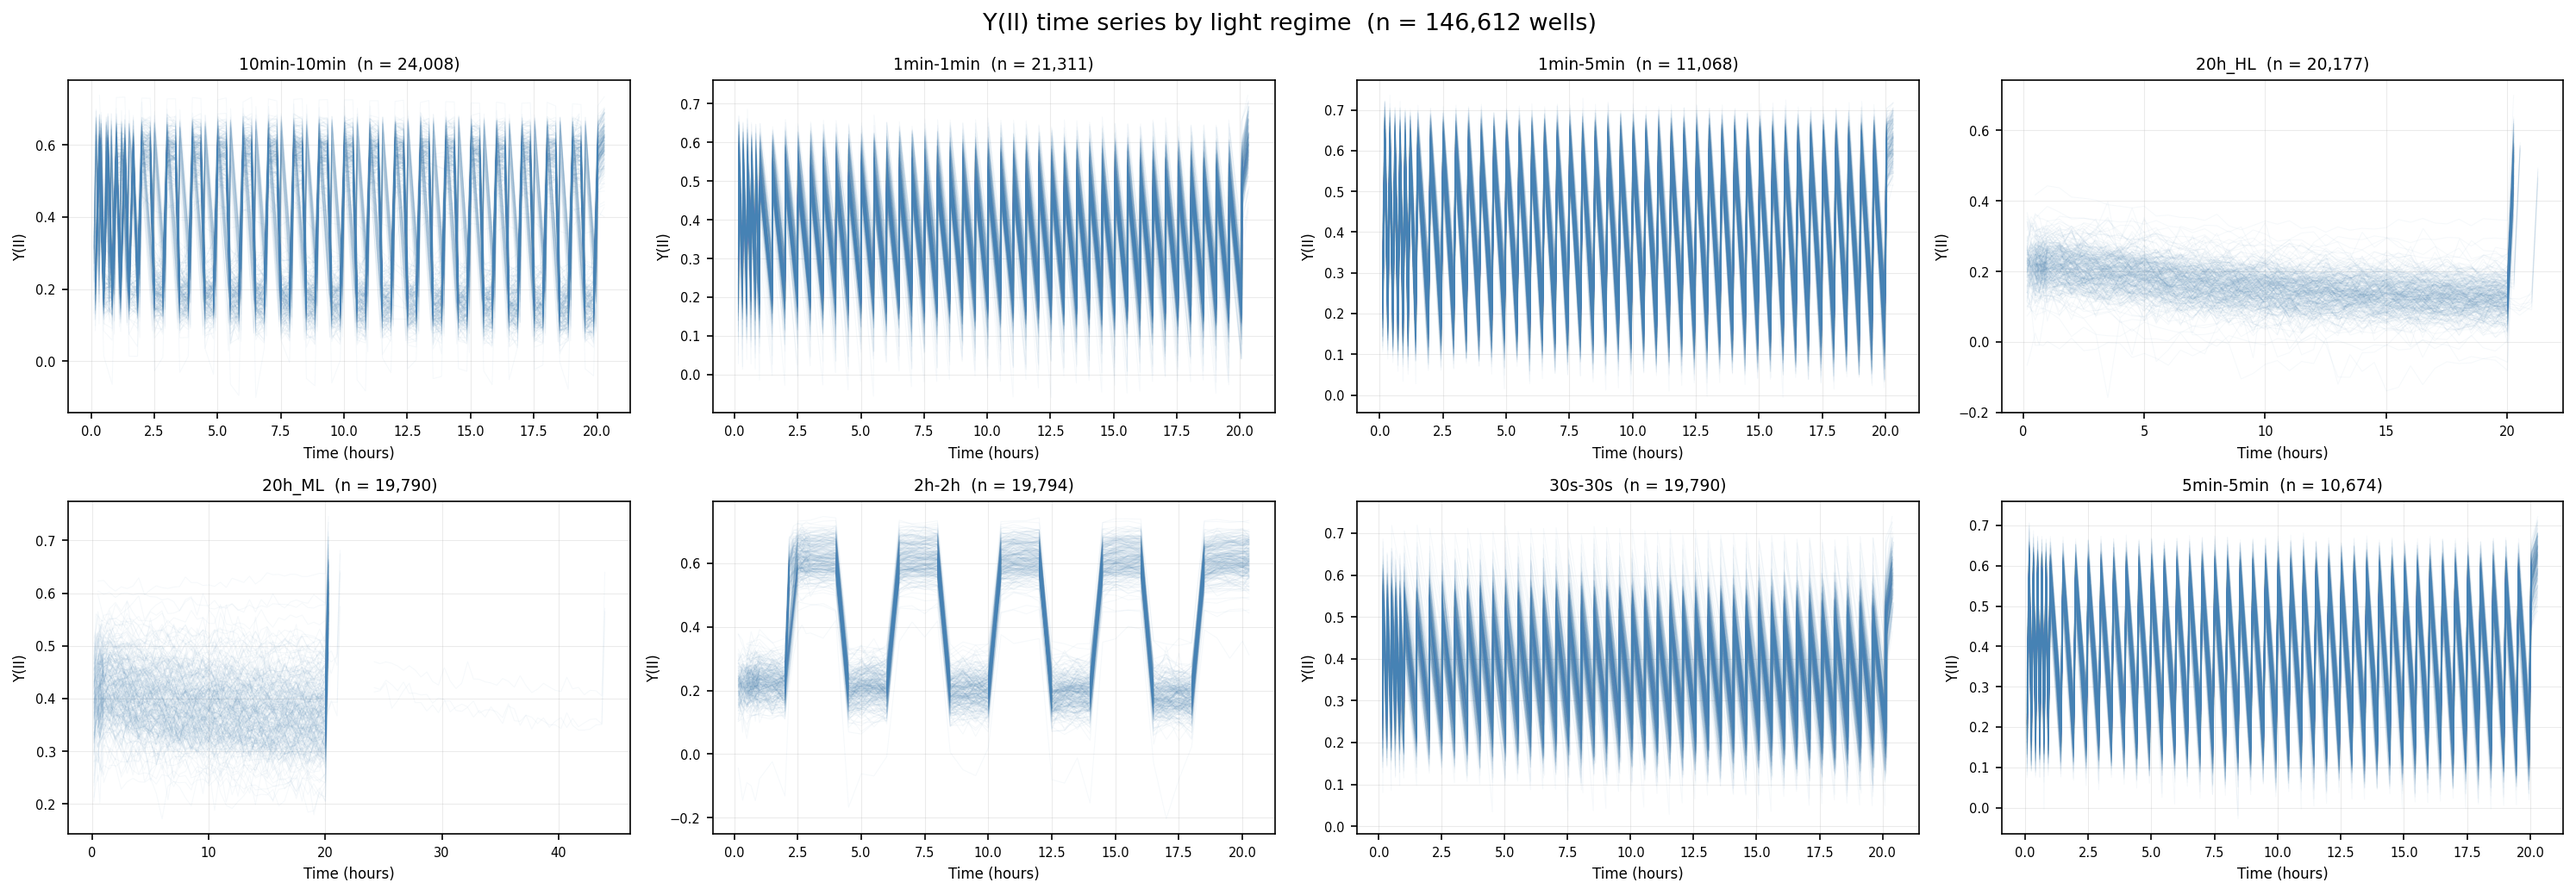
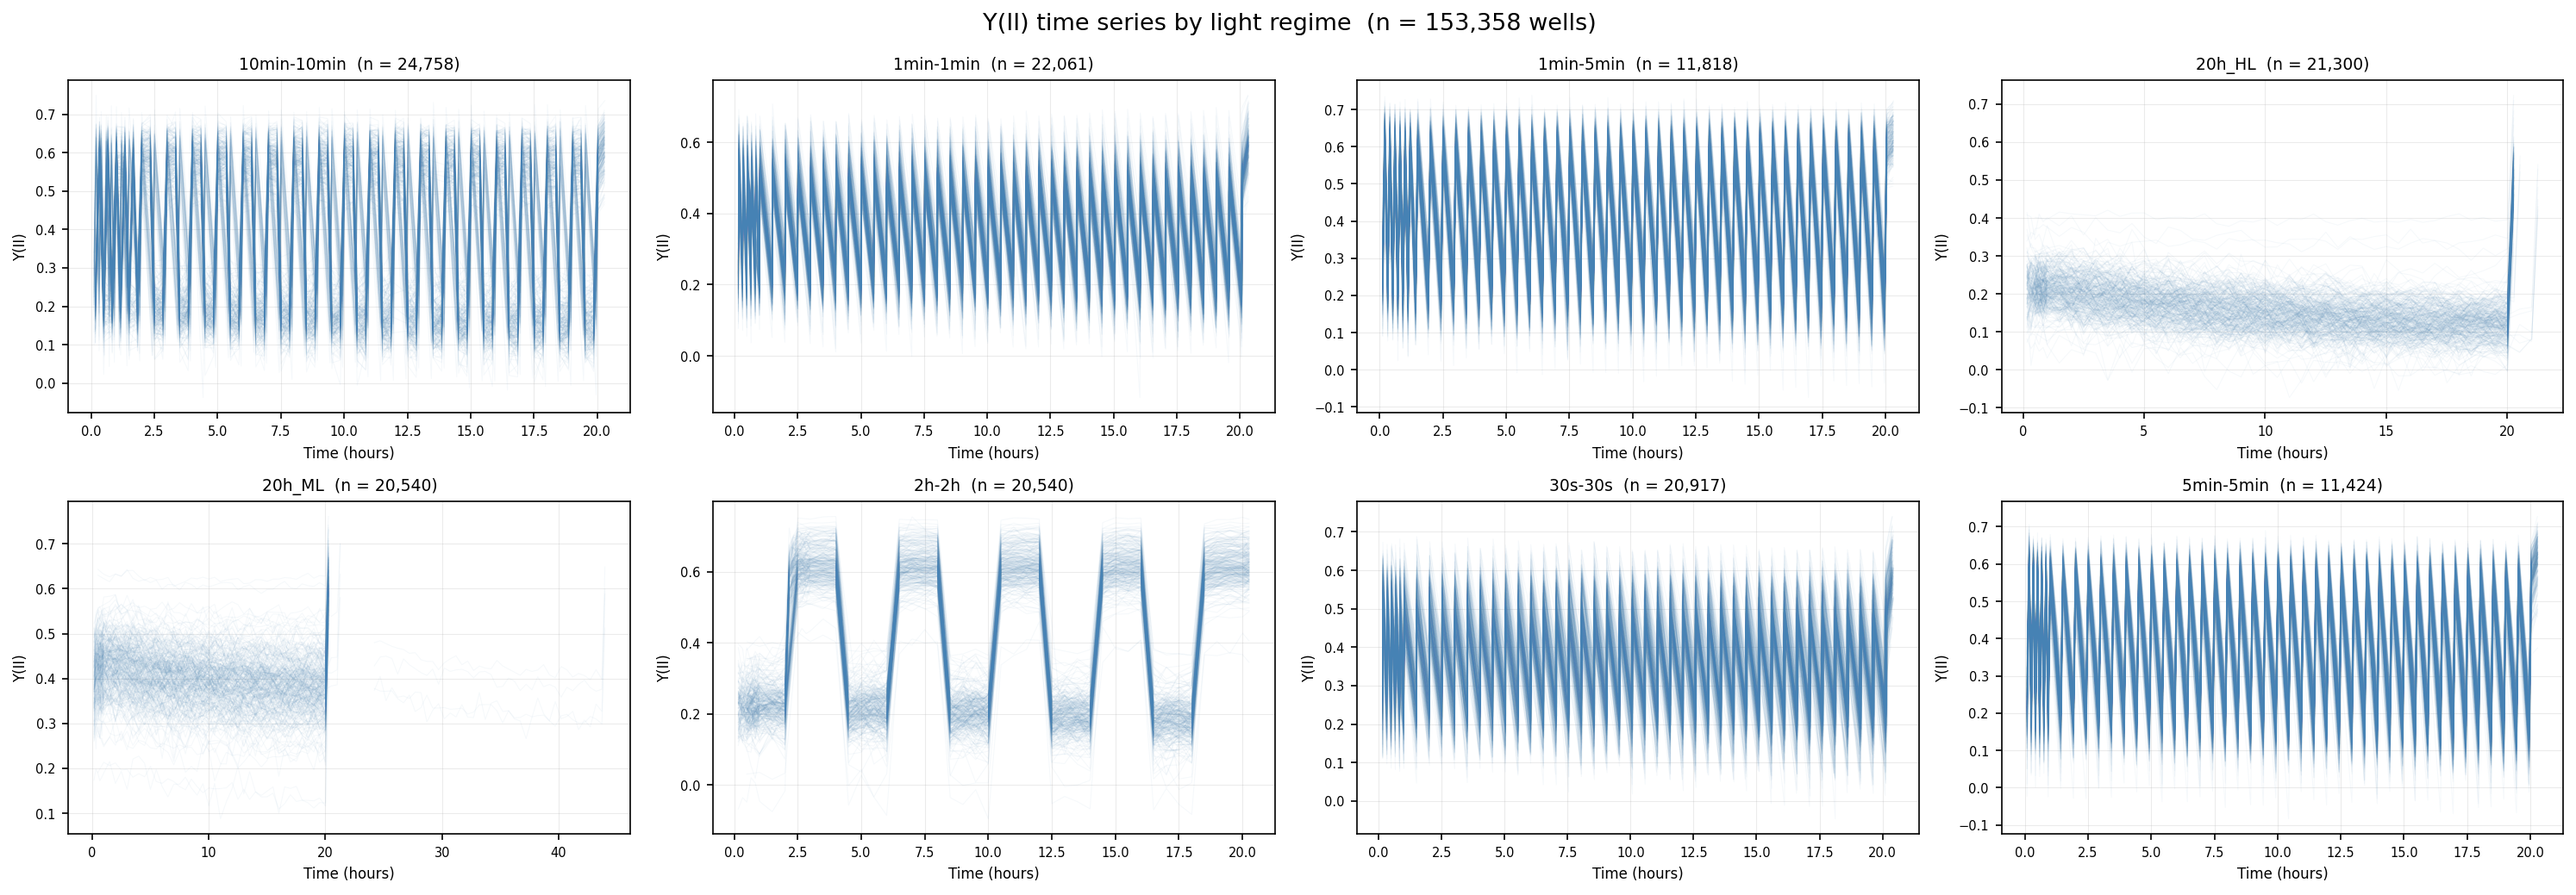
docs: sync report statistics with latest pipeline outputs

diff --git a/docs/index.md b/docs/index.md
@@ -19,28 +19,28 @@ This report documents the Chlamy-IMPI data processing pipeline, which extracts p
 
 | Metric | Value |
 |---|---|
-| Raw TIF/CSV pairs processed | **410** |
-| Plates passing error correction | **410 / 410** (100%) |
+| Raw TIF/CSV pairs processed | **411** |
+| Plates passing error correction | **411 / 411** (100%) |
 | Unique plate IDs in database | **53** |
 | Unique plate IDs in experimental data | **53** (0 excluded — all plates have identity mapping) |
 | Light regimes | **8** |
-| Total wells in database | **152,981** |
-| Non-empty wells (valid signal) | **144,562** (94.5%) |
-| Empty wells (no algal colony) | **8,419** (5.5%) |
-| Timeseries data points | **9,968,330** |
+| Total wells in database | **153,358** |
+| Non-empty wells (valid signal) | **144,923** (94.5%) |
+| Empty wells (no algal colony) | **8,435** (5.5%) |
+| Timeseries data points | **10,000,459** |
 | Date range of experiments | Oct 2023 -- Apr 2026 |
 | Database columns | **726** |
-| Database rows | **152,981** |
+| Database rows | **153,358** |
 
 ### Photosynthetic parameter summary (non-empty wells)
 
 | Parameter | Mean | Median | Std |
 |---|---|---|---|
 | Fv/Fm | 0.635 | 0.635 | 0.050 |
-| Y(II) | 0.365 | 0.339 | 0.185 |
-| Y(NPQ) | 0.181 | 0.187 | 0.166 |
+| Y(II) | 0.365 | 0.340 | 0.185 |
+| Y(NPQ) | 0.180 | 0.187 | 0.166 |
 
-The pipeline is **stable and reproducible**: the latest run (2026-04-28) added 3 new plate IDs (`34v3`, `37v1`, `37v3`) compared to the previous run (2026-04-09). Parameter values for previously-existing wells are unchanged. Three new plates required slight relaxations to the empirical interval-tolerance bounds in `database_creation/constants.py` (1–11 second widenings to admit one-off camera-cadence variations), and the `(plate, measurement, start_date, well_id)` uniqueness sanity check was tightened to use the full documented unique key after `34v2` was imaged with multiple measurements (light regimes) on the same start date.
+The pipeline is **stable and reproducible**: the latest run (2026-05-01) added 1 new TIF/CSV pair to existing plate coverage (+377 database rows, no new plate IDs) compared to the previous run (2026-04-28). Parameter values for previously-existing wells are unchanged.
 
 ---
 
@@ -80,7 +80,7 @@ data/                          (raw TIF + CSV files)
 
 **Input data format:** Each experiment produces a paired `.tif` (multi-frame fluorescence images) and `.csv` (measurement timestamps) file. Each TIF contains alternating dark (F0) and light (Fm) frames -- two frames per measurement timepoint. The 384-well plates are arranged in a 16-row x 24-column grid.
 
-**Output:** A single canonical `database.csv` (152,981 rows x 726 columns) containing per-well photosynthetic parameters, timeseries data, and genetic identity for all experiments.
+**Output:** A single canonical `database.csv` (153,358 rows x 726 columns) containing per-well photosynthetic parameters, timeseries data, and genetic identity for all experiments.
 
 ---
 
@@ -123,7 +123,7 @@ Expected intervals (per time regime) are defined in `database_creation/constants
 
 ### Results
 
-- **410 / 410 plates pass** (100%)
+- **411 / 411 plates pass** (100%)
 - 4 plates have known timestamp anomalies (camera clock drift or DST changes) but **valid image data and correct frame counts**. They are **included in the final database**. These plates are exempt from timestamp monotonicity and interval-consistency checks but pass all other validation:
 
 | Plate | Reason |
@@ -276,9 +276,9 @@ No TIF/CSV data exists for this plate; it appears in the identity spreadsheet bu
 
 | Plate | Dropped wells | Notable pattern |
 |---|---|---|
-| `37v3` | 130 | Scattered across plate (newly added in this run) |
+| `37v3` | 130 | Scattered across plate |
 | `37v2` | 129 | Scattered across plate |
-| `37v1` | 129 | Scattered across plate (newly added in this run) |
+| `37v1` | 129 | Scattered across plate |
 | `23` | 17 | Scattered |
 | `31v1` | 17 | B02, L23, L24, and contiguous block P11–P24 |
 | `31v2` | 17 | Scattered |
@@ -305,7 +305,7 @@ The pipeline supports versioned databases. Each run is saved with its date, and 
 - Wells that change from empty to non-empty or vice versa
 - Parameter diffs exceeding thresholds (Fv/Fm > 0.05, Y(II) > 0.10)
 
-**Latest comparison (2026-04-09 vs 2026-04-28):** +14,162 rows (138,819 -> 152,981), 3 plates added (`34v3`, `37v1`, `37v3`). 750 wells transitioned from populated to empty and 15 from empty to populated. 173 wells exceeded parameter-diff thresholds. Parameter values for all other previously-existing wells are unchanged.
+**Latest comparison (2026-04-28 vs 2026-05-01):** +377 rows (152,981 -> 153,358), no new plates. 16 wells transitioned from populated to empty and 0 from empty to populated. 0 wells exceeded parameter-diff thresholds. Parameter values for all other previously-existing wells are unchanged.
 
 ### Experiments per light regime
 
@@ -314,9 +314,9 @@ The pipeline supports versioned databases. Each run is saved with its date, and 
 | 10min-10min | 66 |
 | 1min-1min | 59 |
 | 20h_HL | 57 |
-| 20h_ML | 55 |
+| 30s-30s | 56 |
 | 2h-2h | 55 |
-| 30s-30s | 55 |
+| 20h_ML | 55 |
 | 1min-5min | 32 |
 | 5min-5min | 31 |
 
@@ -388,7 +388,7 @@ Four plates have known camera clock issues (overnight interruption or DST change
 
 ## Appendix: Database Schema
 
-The final `database.csv` contains 726 columns and 152,981 rows. One row per (plate x measurement x well).
+The final `database.csv` contains 726 columns and 153,358 rows. One row per (plate x measurement x well).
 
 ### Identification columns
 
